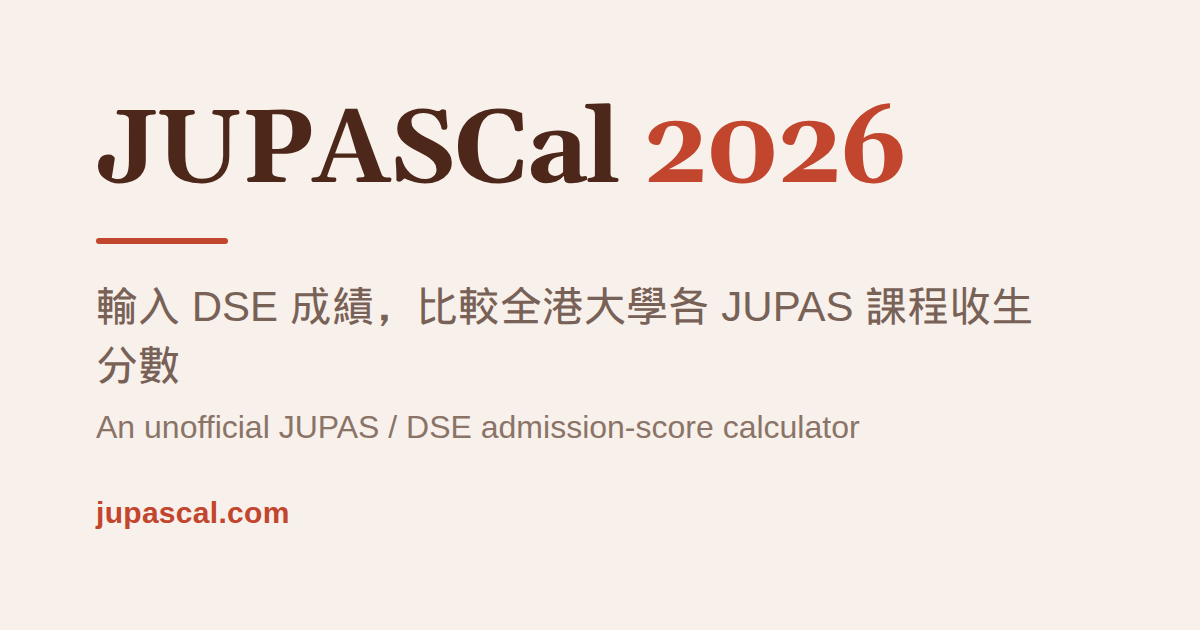
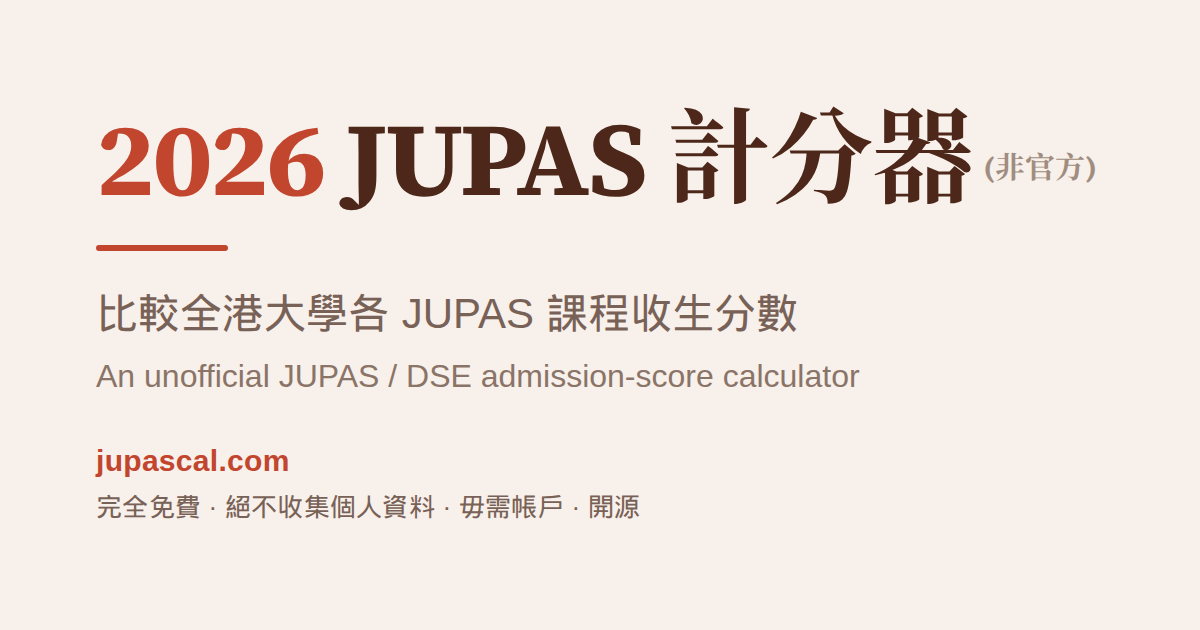
feat(og): refresh social share card
- Title JUPASCal 2026 → '2026 JUPAS 計分器 (非官方)', rendered in the app's
  profile-name serif (Source Serif 4 for Latin, Noto Serif TC for the CJK).
- Drop the '輸入 DSE 成績，' call-to-action from the tagline.
- Add a neutral trust line: 完全免費 · 絕不收集個人資料 · 毋需帳戶 · 開源.

diff --git a/scripts/gen_og_image.py b/scripts/gen_og_image.py
@@ -13,32 +13,40 @@ HTML = """
 <!doctype html><html lang="zh-Hant"><head><meta charset="utf-8">
 <link rel="preconnect" href="https://fonts.googleapis.com">
 <link rel="preconnect" href="https://fonts.gstatic.com" crossorigin>
-<link rel="stylesheet" href="https://fonts.googleapis.com/css2?family=Gelasio:wght@400;600;700&display=swap">
+<link rel="stylesheet" href="https://fonts.googleapis.com/css2?family=Source+Serif+4:wght@700&family=Noto+Serif+TC:wght@700&text=2026%20JUPAS%E8%A8%88%E5%88%86%E5%99%A8%28%E9%9D%9E%E5%AE%98%E6%96%B9%29&display=swap">
 <style>
   * { margin: 0; box-sizing: border-box; }
   html, body { width: 1200px; height: 630px; }
   .card {
     width: 1200px; height: 630px; background: #f8f0ea; color: #4d281a;
     padding: 0 96px; display: flex; flex-direction: column; justify-content: center;
-    font-family: "Gelasio", Georgia, serif;
+    /* Match the app's profile-name serif (--font-serif); Source Serif 4 stands in
+       for the macOS-only Iowan/Charter on the headless renderer, Noto Serif TC
+       carries the CJK glyphs (計分器). */
+    font-family: "Source Serif 4", "Iowan Old Style", "Charter", "Noto Serif TC", Georgia, serif;
   }
   .word { font-size: 104px; font-weight: 700; letter-spacing: -0.02em; line-height: 1; }
   .word .yr { color: #c2452e; }
+  .word .unofficial { font-size: 30px; font-weight: 400; color: #a08d80;
+                      letter-spacing: 0; vertical-align: 0.55em; margin-left: 10px; }
   .rule { width: 132px; height: 6px; background: #c2452e; border-radius: 3px; margin: 34px 0; }
   .tag { font-family: "Helvetica Neue", Helvetica, Arial, sans-serif; color: #786257;
          font-size: 42px; line-height: 1.4; max-width: 940px; }
   .tag .en { display: block; font-size: 32px; margin-top: 10px; color: #8a7468; }
   .url { font-family: "Helvetica Neue", Helvetica, Arial, sans-serif; color: #c2452e;
          font-weight: 700; font-size: 30px; margin-top: 46px; letter-spacing: 0.01em; }
+  .free { font-family: "Helvetica Neue", Helvetica, Arial, sans-serif; color: #786257;
+          font-size: 26px; margin-top: 14px; letter-spacing: 0.01em; }
 </style></head>
 <body>
   <div class="card">
-    <div class="word">JUPASCal <span class="yr">2026</span></div>
+    <div class="word"><span class="yr">2026</span> JUPAS 計分器<span class="unofficial">(非官方)</span></div>
     <div class="rule"></div>
-    <div class="tag">輸入 DSE 成績，比較全港大學各 JUPAS 課程收生分數
+    <div class="tag">比較全港大學各 JUPAS 課程收生分數
       <span class="en">An unofficial JUPAS / DSE admission-score calculator</span>
     </div>
     <div class="url">jupascal.com</div>
+    <div class="free">完全免費 · 絕不收集個人資料 · 毋需帳戶 · 開源</div>
   </div>
 </body></html>
 """
@@ -47,7 +55,7 @@ with sync_playwright() as p:
     browser = p.chromium.launch()
     page = browser.new_page(viewport={"width": 1200, "height": 630}, device_scale_factor=1)
     page.set_content(HTML, wait_until="networkidle")
-    page.wait_for_timeout(600)  # let webfont settle
+    page.wait_for_timeout(1500)  # let webfonts (incl. CJK) settle
     page.locator(".card").screenshot(path=str(OUT))
     browser.close()
 
